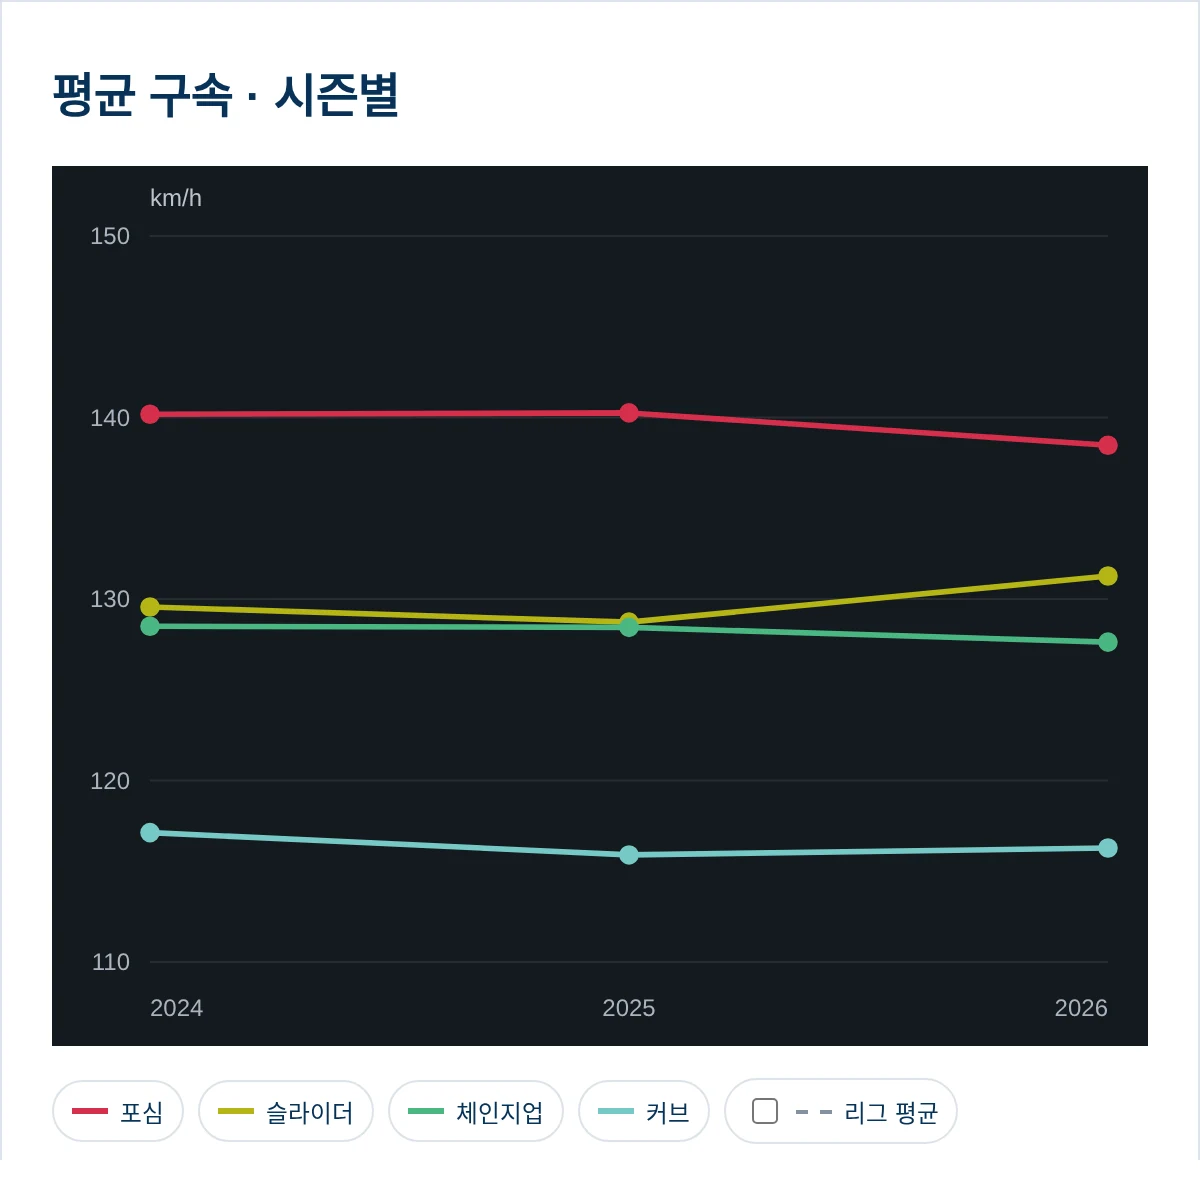
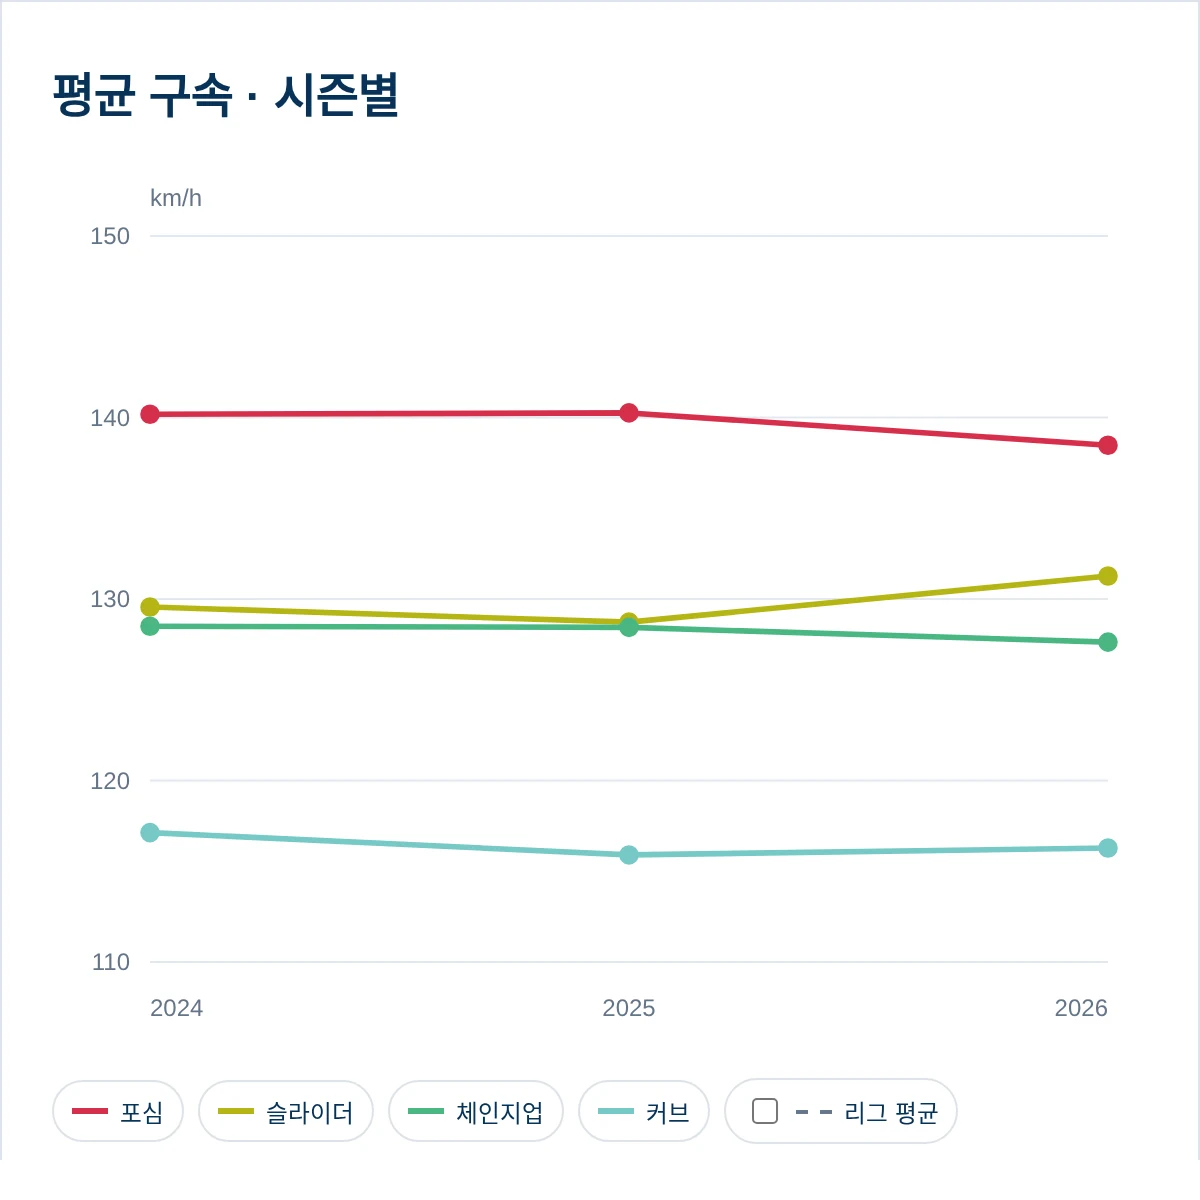
웹: Trendline 차트 배경을 흰색으로 변경
- 축·눈금·리그 평균 점선·커서를 흰 배경에 맞춥니다.
- 홈 썸네일을 재생성하고 CSS·JS·이미지 캐시 버전을 올립니다.

diff --git a/web/trendline/trendline.js b/web/trendline/trendline.js
@@ -131,17 +131,17 @@ function drawModel(model) {
   const x=t=>bins.length<=1 || first===last?(left+width-right)/2:left+(t-first)/(last-first)*(width-left-right);
   const y=v=>height-bottom-(v-axis.min)/(axis.max-axis.min)*(height-top-bottom);
   Object.assign(model,{width,height,left,right,x,y});
-  let svg=`<svg viewBox="0 0 ${width} ${height}" role="img" aria-label="${escapeHtml(state.selected.name)} ${spec.label} 추세선"><text x="${left}" y="20" fill="#bac3ce" font-size="12">${spec.unit}</text>`;
-  for(let tick=axis.min;tick<=axis.max+axis.step/10;tick+=axis.step) svg+=`<line x1="${left}" x2="${width-right}" y1="${y(tick)}" y2="${y(tick)}" stroke="#ffffff17"/><text x="${left-10}" y="${y(tick)+4}" text-anchor="end" fill="#aab3bf" font-size="12">${Number(tick.toFixed(2))}</text>`;
+  let svg=`<svg viewBox="0 0 ${width} ${height}" role="img" aria-label="${escapeHtml(state.selected.name)} ${spec.label} 추세선"><text x="${left}" y="20" fill="#657589" font-size="12">${spec.unit}</text>`;
+  for(let tick=axis.min;tick<=axis.max+axis.step/10;tick+=axis.step) svg+=`<line x1="${left}" x2="${width-right}" y1="${y(tick)}" y2="${y(tick)}" stroke="#e3e9ef"/><text x="${left-10}" y="${y(tick)+4}" text-anchor="end" fill="#657589" font-size="12">${Number(tick.toFixed(2))}</text>`;
   const stride=Math.max(1,Math.ceil(bins.length/(width<400?3:5)));
-  bins.forEach((bin,i)=>{if(i%stride!==0 && i!==bins.length-1)return;const label=mode==="season"?bin.label:mode==="month"?bin.label.replace("-","."):bin.label.slice(5).replace("-",".");svg+=`<text x="${x(bin.x)}" y="${height-15}" text-anchor="${i===0?"start":i===bins.length-1?"end":"middle"}" fill="#aab3bf" font-size="12">${label}</text>`;});
+  bins.forEach((bin,i)=>{if(i%stride!==0 && i!==bins.length-1)return;const label=mode==="season"?bin.label:mode==="month"?bin.label.replace("-","."):bin.label.slice(5).replace("-",".");svg+=`<text x="${x(bin.x)}" y="${height-15}" text-anchor="${i===0?"start":i===bins.length-1?"end":"middle"}" fill="#657589" font-size="12">${label}</text>`;});
   for(const curve of active) {
-    if(w.league) svg+=`<path class="league-line" d="${pathFor(curve.points,x,y,true,mode)}" fill="none" stroke="${active.length>1?curve.color:"#b6c4d3"}" stroke-width="2" stroke-dasharray="6 5" opacity=".8"/>`;
+    if(w.league) svg+=`<path class="league-line" d="${pathFor(curve.points,x,y,true,mode)}" fill="none" stroke="${active.length>1?curve.color:"#68788b"}" stroke-width="2" stroke-dasharray="6 5" opacity=".8"/>`;
     svg+=`<path class="player-line" d="${pathFor(curve.points,x,y,false,mode)}" fill="none" stroke="${curve.color}" stroke-width="2.8" stroke-linejoin="round"/>`;
-    for(const point of curve.points) if(point.value!==null) svg+=`<circle class="trend-point" cx="${x(point.x)}" cy="${y(point.value)}" r="${bins.length>100?2.2:4}" fill="${point.low?"#14191e":curve.color}" stroke="${curve.color}" stroke-width="1.8"/>`;
+    for(const point of curve.points) if(point.value!==null) svg+=`<circle class="trend-point" cx="${x(point.x)}" cy="${y(point.value)}" r="${bins.length>100?2.2:4}" fill="${point.low?"#fff":curve.color}" stroke="${curve.color}" stroke-width="1.8"/>`;
   }
-  if(!values.some(Number.isFinite)) svg+=`<text x="${width/2}" y="${height/2}" text-anchor="middle" fill="#b6c4d3" font-size="13">이 기간에 계산할 기록이 없습니다.</text>`;
-  svg+=`<line class="trend-crosshair" x1="0" x2="0" y1="${top}" y2="${height-bottom}" stroke="#ffffff88" stroke-dasharray="3 4" visibility="hidden"/></svg>`;
+  if(!values.some(Number.isFinite)) svg+=`<text x="${width/2}" y="${height/2}" text-anchor="middle" fill="#68788b" font-size="13">이 기간에 계산할 기록이 없습니다.</text>`;
+  svg+=`<line class="trend-crosshair" x1="0" x2="0" y1="${top}" y2="${height-bottom}" stroke="#62748a80" stroke-dasharray="3 4" visibility="hidden"/></svg>`;
   chart.innerHTML=svg;
   const legend=card.querySelector(".trend-legend");
   legend.innerHTML=curves.map(c=>`<button type="button" data-series="${c.code}" aria-pressed="${!w.hidden.has(c.code)}"><i class="trend-swatch" style="border-color:${c.color}"></i>${escapeHtml(c.label)}</button>`).join("")+`<label class="trend-league-label"><input type="checkbox" class="league-toggle" ${w.league?"checked":""}><i class="trend-swatch"></i>리그 평균</label>`;

diff --git a/web/trendline/trendline.css b/web/trendline/trendline.css
@@ -26,7 +26,7 @@ body { margin: 0; }
 .trend-options { display: grid; grid-template-columns: 1.3fr 1fr 1fr; gap: 10px; margin-bottom: 14px; }
 .trend-options select { min-width: 0; width: 100%; min-height: 36px; padding: 7px; border: 1px solid var(--kbo-line); border-radius: 6px; color: var(--kbo-navy); background: #fff; font-size: .8rem; }
 .trend-options select:disabled { opacity: .55; }
-.trend-chart { position: relative; min-height: 280px; border-radius: 9px; overflow: hidden; background: #14191e; color: #f4f5f6; touch-action: pan-y; }
+.trend-chart { position: relative; min-height: 280px; border-radius: 9px; overflow: hidden; background: #fff; color: var(--kbo-navy); touch-action: pan-y; }
 .trend-chart svg { display: block; width: 100%; }
 .trend-chart:focus-visible { outline: 3px solid var(--kbo-red); outline-offset: 3px; }
 .trend-chart .trend-crosshair { pointer-events: none; }
@@ -36,7 +36,7 @@ body { margin: 0; }
 .trend-legend button[aria-pressed="false"] { opacity: .35; }
 .trend-swatch { display: inline-block; width: 18px; border-top: 3px solid; }
 .trend-league-label { cursor: pointer; }
-.trend-league-label .trend-swatch { border-top: 2px dashed #84919f; }
+.trend-league-label .trend-swatch { border-top: 2px dashed #68788b; }
 .trend-detail { min-height: 65px; padding-top: 11px; border-top: 1px solid var(--kbo-line); color: var(--kbo-muted); font-size: .78rem; line-height: 1.65; }
 .trend-detail strong { color: var(--kbo-navy); }
 .trend-sample { margin-top: 6px; color: var(--kbo-muted); font-size: .72rem; }

diff --git a/web/index.html b/web/index.html
@@ -62,7 +62,7 @@
           <div class="visual-card__body"><h3>Blocking</h3><p>포수별 블로킹 기회와 Blocks Above Average</p><b>열기 →</b></div>
         </a>
         <a class="visual-card" href="trendline/">
-          <div class="visual-art" aria-hidden="true"><img src="assets/thumbnails/trendline.webp?v=20261008-1" alt=""></div>
+          <div class="visual-art" aria-hidden="true"><img src="assets/thumbnails/trendline.webp?v=20261008-2" alt=""></div>
           <div class="visual-card__body"><h3>Trendline</h3><p>선수의 시즌별 변화와 경기별 추세를 리그 평균과 함께 확인합니다.</p><b>열기 →</b></div>
         </a>
       </div>

diff --git a/web/trendline/index.html b/web/trendline/index.html
@@ -4,7 +4,7 @@
   <meta charset="utf-8">
   <meta name="viewport" content="width=device-width, initial-scale=1">
   <title>KBO Trendline</title>
-  <link rel="stylesheet" href="trendline.css?v=20261008-1">
+  <link rel="stylesheet" href="trendline.css?v=20261008-2">
   <link rel="stylesheet" href="../theme.css?v=20261007-1">
 </head>
 <body>
@@ -45,6 +45,6 @@
     </section>
   </main>
   <script src="trendline-math.js?v=20261008-1"></script>
-  <script src="trendline.js?v=20261008-2"></script>
+  <script src="trendline.js?v=20261008-3"></script>
 </body>
 </html>
